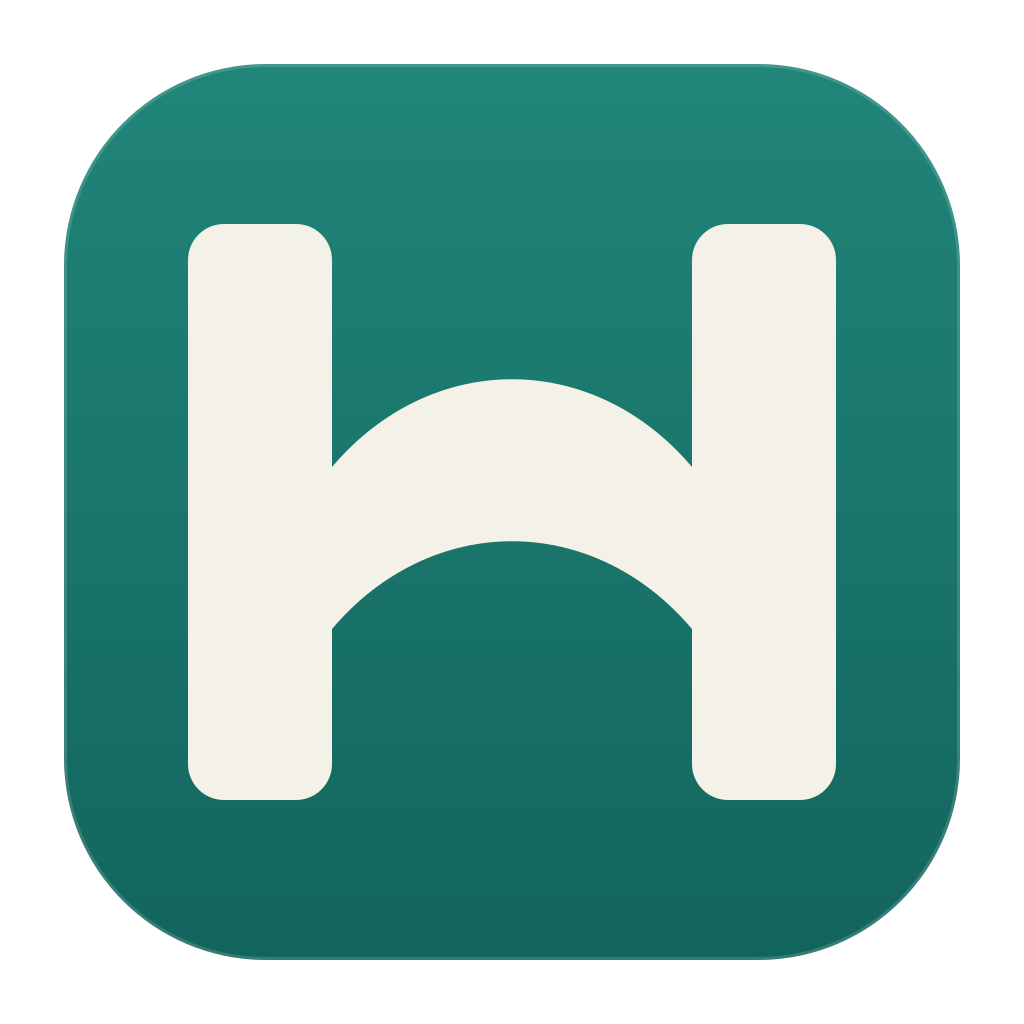
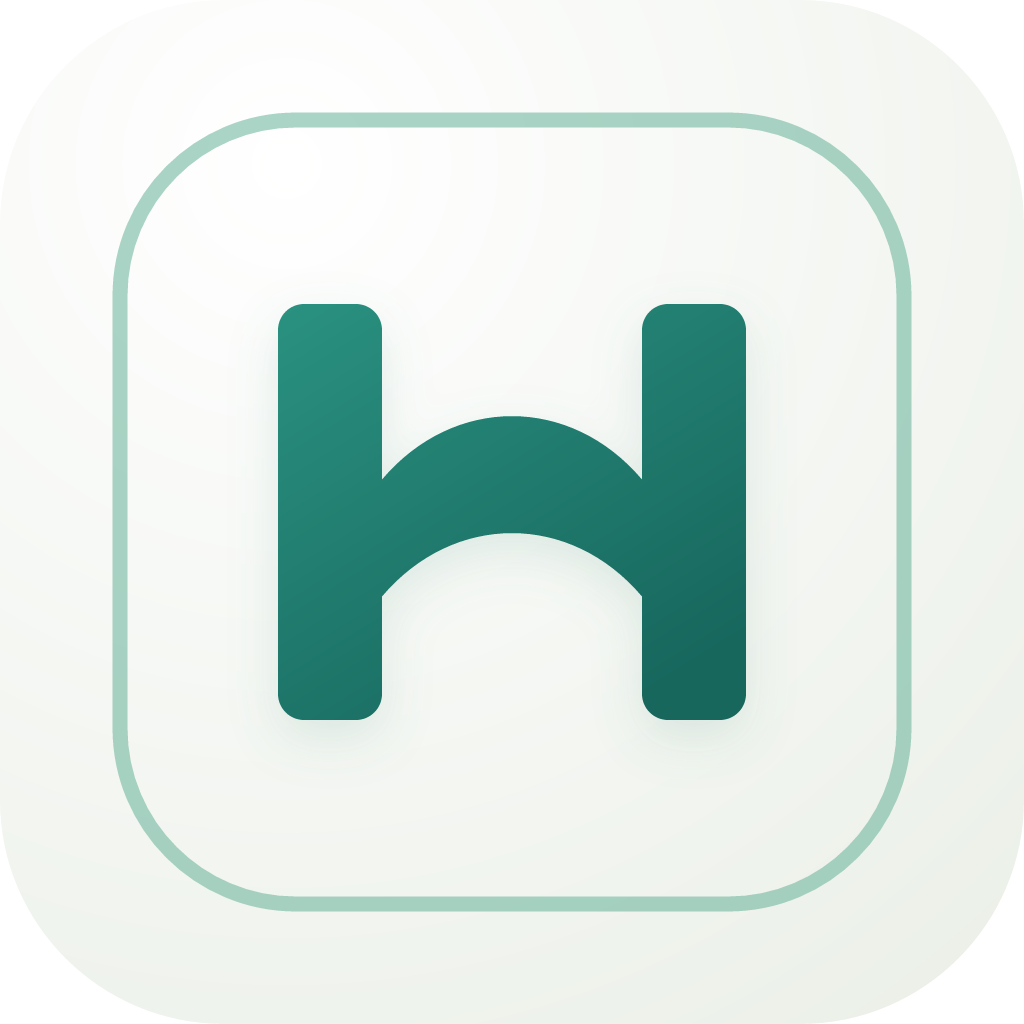
Unify Hermes branding across app and project previews

diff --git a/docs/BRAND.md b/docs/BRAND.md
@@ -6,9 +6,11 @@ Bring your remote agent into your workflow. Hermes Bridge Tool is an independent
 
 ## Identity
 
-The mark combines an **H** with an arched bridge: two endpoints, one connection. Use the plain mark in compact UI, the wordmark in documentation, and the square app icon for macOS. Keep language direct and useful. Describe the connection and the task it enables; avoid claims of official affiliation.
+The mark combines an **H** with an arched bridge: two endpoints, one connection. Use the plain mark in compact UI, the wordmark in documentation, and the macOS icon for the app bundle. Keep language direct and useful. Describe the connection and the task it enables; avoid claims of official affiliation.
 
 The pillars and arch form one continuous SVG path in every variant. Keep that silhouette unified: separate shapes that meet at an exact edge can show antialiasing seams when a browser scales the logo.
+
+The app icon uses a soft white-to-sage surface (`#FFFFFF` to `#EAEFE7`), an inset sage outline (`#72B7A0` at 60% opacity), and the bridge in a restrained teal gradient (`#2A9180` to `#17675D`). A diffuse shadow gives the bridge slight depth. Keep the generous spacing and rounded corners; the silhouette should remain readable at small sizes. The macOS variant uses the same tile and bridge, inset by 100 pixels in a 1024-pixel transparent canvas with a subtle outer shadow. This gives the Dock and Finder icon breathing room; keep the full tile for website cards and the setup window. The menu bar uses the plain monochrome template mark so macOS can adapt it to light and dark appearances.
 
 | Color | Hex | Use |
 | --- | --- | --- |
@@ -26,25 +28,29 @@ All files are in [`assets/brand`](../assets/brand/).
 
 | Asset | Use |
 | --- | --- |
-| `mark.svg` | Teal mark; 96 × 96 view box |
+| `mark.svg` | Teal gradient mark; 96 × 96 view box |
 | `mark-mono.svg` | Black mark for single color and template rendering |
 | `wordmark.svg` | Transparent horizontal logo |
-| `app-icon.svg`, `app-icon.png` | 1024 × 1024 macOS icon source; transparent outer margin |
+| `app-icon.svg`, `app-icon.png` | 1024 × 1024 app icon; soft sage surface and transparent rounded corners |
+| `macos-icon.svg`, `macos-icon.png` | 1024 × 1024 macOS source; inset tile and transparent outer spacing |
 | `menu-bar-template.png`, `menu-bar-template@2x.png` | 18 pt menu bar icon at 1× and 2×; render as an AppKit template image |
-| `github-banner.svg` | 1280 × 640 README hero |
+| `github-banner.svg` | 1280 × 640 README hero with the current app icon |
 | `social-card.svg`, `social-card.png` | 1200 × 630 GitHub social preview and project sharing |
 
-Keep the mark at least 16 pixels wide. Leave at least one pillar's width between the visible mark and surrounding content. Do not stretch, rotate, or add details inside the arch. Use the single color mark where gradients or several colors would reduce clarity. The app icon's subtle tonal background is reserved for the app icon.
+Keep the mark at least 16 pixels wide. Leave at least one pillar's width between the visible mark and surrounding content. Do not stretch, rotate, or add details inside the arch. Use the single color mark where gradients or several colors would reduce clarity. Keep the app tile intact when using it in banners and preview cards. The standalone mark and wordmark remain transparent.
 
 ## Regenerating PNGs
 
-The checked-in SVGs are the source of truth. ImageMagick can export the assets locally; it is only needed when editing the artwork.
+The checked-in SVGs are the source of truth. Export the app icon, macOS icon, and social card with resvg (the CLI or `@resvg/resvg-js` binding) to preserve their SVG drop shadows; ImageMagick's built-in SVG renderer may omit this filter. ImageMagick can export the monochrome template assets. The README banner and social-card SVGs embed the same app tile geometry and gradients, so update those inline definitions whenever the app icon changes. These tools are only needed when editing the artwork.
 
 ```sh
-magick -background none assets/brand/app-icon.svg assets/brand/app-icon.png
-magick -background none assets/brand/social-card.svg assets/brand/social-card.png
+resvg assets/brand/app-icon.svg assets/brand/app-icon.png
+resvg assets/brand/macos-icon.svg assets/brand/macos-icon.png
+resvg assets/brand/social-card.svg assets/brand/social-card.png
 magick -background none assets/brand/mark-mono.svg -resize 18x18 assets/brand/menu-bar-template.png
 magick -background none assets/brand/mark-mono.svg -resize 36x36 assets/brand/menu-bar-template@2x.png
 ```
 
-Text rendering depends on installed fonts. Review the exported social card after changing a headline or typeface. For a GitHub repository, upload `social-card.png` under the repository's social preview setting once the repo has been published.
+`scripts/build-macos.sh` bundles the committed app PNG for the setup window and generates `HermesBridgeTool.icns` from `macos-icon.png` for the macOS app, including 16–1024 pixel representations. Regenerate both PNGs whenever their SVGs change, then run `sh scripts/build-macos.sh` to verify both uses. Generated `.app` and `.icns` files remain in the ignored `dist/` folder.
+
+Text rendering depends on installed fonts. Review the exported social card after changing a headline or typeface. The README uses `github-banner.svg` directly. GitHub's external link preview is a separate repository setting: upload `social-card.png` under **Settings → General → Social preview**. Committing the PNG does not update that setting; verify the repository's `usesCustomOpenGraphImage` value and the resulting preview after upload.

diff --git a/README.md b/README.md
@@ -1,4 +1,4 @@
-<img src="assets/brand/github-banner.svg" alt="Hermes Bridge Tool — Your agent. Within reach." width="1280">
+<img src="assets/brand/github-banner.svg" alt="Hermes Bridge Tool — sage app icon. Your agent. Within reach." width="1280">
 
 # Hermes Bridge Tool
 
